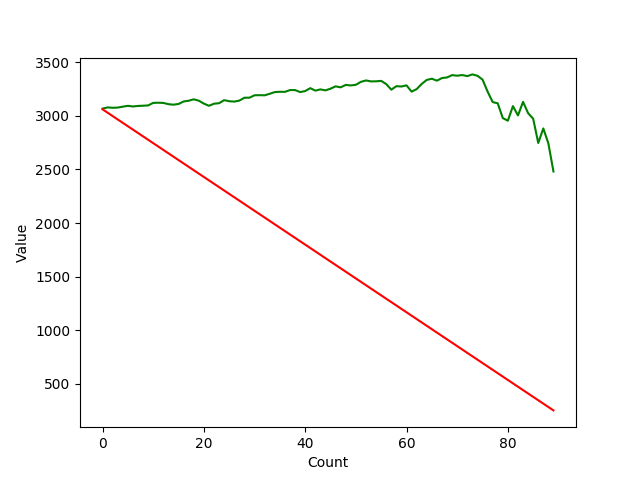
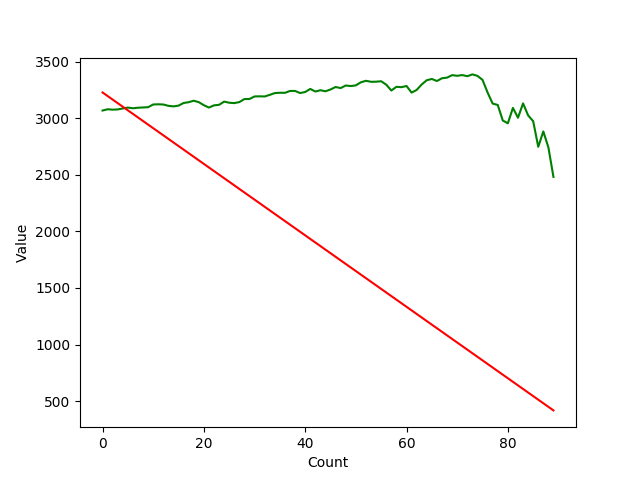
Automated Commision

diff --git a/prediction/sequential.py b/prediction/sequential.py
@@ -41,11 +41,11 @@ def regression_momentum_bias(timeseries, observation_range):
     high_low_slope = (timeseries.raw_datapoint(high) - timeseries.raw_datapoint(low)) / (high - low)
     
     slope = (high_low_slope + end_point_slope) / 2
-    line_bias = timeseries.raw_datapoint(0)
+    line_bias = (timeseries.raw_datapoint(high) + timeseries.raw_datapoint(0)) / 2
     
     line = [i * slope + line_bias for i in range(timeseries.raw_size())]
-    #graph(timeseries.raw_matrix(), "green", "trend.png", False)
-    #graph(line, "red", "trend.png", False)
+    graph(timeseries.raw_matrix(), "green", "trend.png", False)
+    graph(line, "red", "trend.png", False)
     
     # calculate bias momentum by comparing the amount of plots in a certain range of 
     # difference of the actual stock prices between the values represented by the regression line
